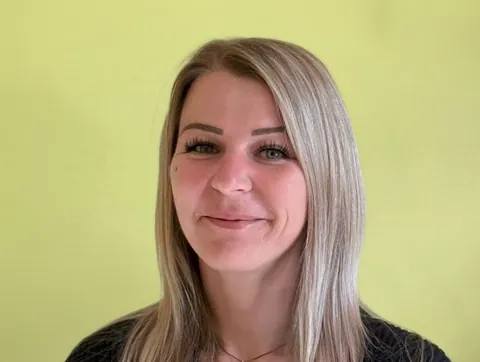
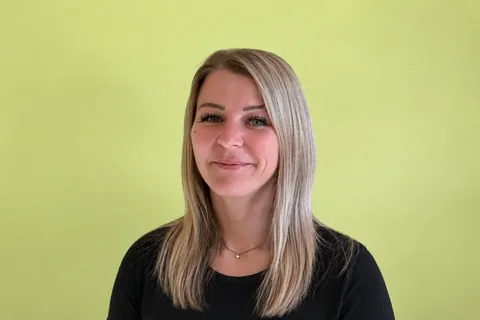
feat: portraits rectangulaires, nouvelle photo Madelyn, bandeau défilant Google Sheet

diff --git a/assets/site.js b/assets/site.js
@@ -95,3 +95,70 @@ oeffnungsstatus();
 setInterval(oeffnungsstatus, 60000);
 menue();
 galerie();
+
+/* ---------- Laufband für Praxisferien & Hinweise ----------
+   Der Text steht in einer Google-Tabelle (Datei → Freigeben → Im Web veröffentlichen → CSV).
+   Die Adresse des CSV-Links kommt hier hinein. Leer lassen = kein Laufband.
+   Tabelle: Zeile 1 = Überschriften, ab Zeile 2 je Zeile: Text | Von | Bis
+   (Datum als TT.MM.JJJJ oder JJJJ-MM-TT; "Von"/"Bis" dürfen leer bleiben). */
+const LAUFBAND_CSV = "";
+
+(function laufband() {
+  if (!LAUFBAND_CSV) return;
+
+  const heuteBerlin = () => new Intl.DateTimeFormat("sv-SE", { timeZone: "Europe/Berlin" }).format(new Date()); // JJJJ-MM-TT
+  const alsIso = (s) => {
+    s = (s || "").trim();
+    let m = s.match(/^(\d{1,2})\.(\d{1,2})\.(\d{4})$/);
+    if (m) return `${m[3]}-${m[2].padStart(2, "0")}-${m[1].padStart(2, "0")}`;
+    m = s.match(/^(\d{4})-(\d{1,2})-(\d{1,2})$/);
+    return m ? `${m[1]}-${m[2].padStart(2, "0")}-${m[3].padStart(2, "0")}` : "";
+  };
+  // Minimaler CSV-Leser (Anführungszeichen, Kommas und Zeilenumbrüche in Zellen)
+  const csv = (text) => {
+    const zeilen = []; let zeile = [], zelle = "", q = false;
+    for (let i = 0; i < text.length; i++) {
+      const c = text[i];
+      if (q) { if (c === '"') { if (text[i + 1] === '"') { zelle += '"'; i++; } else q = false; } else zelle += c; }
+      else if (c === '"') q = true;
+      else if (c === ",") { zeile.push(zelle); zelle = ""; }
+      else if (c === "\n" || c === "\r") { if (c === "\r" && text[i + 1] === "\n") i++; zeile.push(zelle); zeilen.push(zeile); zeile = []; zelle = ""; }
+      else zelle += c;
+    }
+    if (zelle || zeile.length) { zeile.push(zelle); zeilen.push(zeile); }
+    return zeilen;
+  };
+
+  fetch(LAUFBAND_CSV, { cache: "no-store" })
+    .then((r) => (r.ok ? r.text() : Promise.reject()))
+    .then((text) => {
+      const heute = heuteBerlin();
+      const texte = csv(text).slice(1)
+        .filter(([t, von, bis]) => {
+          if (!(t || "").trim()) return false;
+          const v = alsIso(von), b = alsIso(bis);
+          return (!v || v <= heute) && (!b || heute <= b);
+        })
+        .map(([t]) => t.trim());
+      if (!texte.length) return;
+
+      const band = document.createElement("div");
+      band.className = "laufband";
+      band.setAttribute("role", "region");
+      band.setAttribute("aria-label", "Aktuelle Hinweise");
+      const spur = document.createElement("div");
+      spur.className = "laufband__spur";
+      // Zweimal, damit die Schleife nahtlos läuft; die Kopie ist für Screenreader ausgeblendet
+      [false, true].forEach((kopie) => {
+        const p = document.createElement("p");
+        if (kopie) p.setAttribute("aria-hidden", "true");
+        p.textContent = texte.join("   ·   ") + "   ·   ";
+        spur.appendChild(p);
+      });
+      // Geschwindigkeit ~ 60 px/s, unabhängig von der Textlänge
+      band.appendChild(spur);
+      document.body.prepend(band);
+      spur.style.animationDuration = Math.max(15, spur.firstChild.scrollWidth / 60) + "s";
+    })
+    .catch(() => {}); // Tabelle nicht erreichbar: Seite bleibt einfach ohne Laufband
+})();

diff --git a/assets/site.css b/assets/site.css
@@ -305,13 +305,13 @@ a.card:hover { border-color: var(--cobalt); box-shadow: var(--shadow); transform
 .card__more { margin-top: auto; padding-top: 12px; font-weight: 600; color: var(--cobalt); }
 
 /* ---------- Team ---------- */
-.faces { display: grid; grid-template-columns: repeat(5, 1fr); gap: clamp(12px, 2vw, 24px); list-style: none; padding: 0; margin: 0; }
+.faces { display: grid; grid-template-columns: repeat(3, 1fr); gap: clamp(12px, 2vw, 24px); list-style: none; padding: 0; margin: 0; }
 .face { text-align: center; }
-.face__img { aspect-ratio: 1; border-radius: 50%; overflow: hidden; background: var(--wall-strong); margin-bottom: 12px; border: 4px solid var(--white); box-shadow: var(--shadow); }
-.face__img img { width: 100%; height: 100%; object-fit: cover; object-position: 50% 30%; transform: scale(1.35); transform-origin: 50% 35%; }
+.face__img { aspect-ratio: 1.15; border-radius: 6px; overflow: hidden; background: var(--wall-strong); margin-bottom: 12px; }
+.face__img img { width: 100%; height: 100%; object-fit: cover; object-position: 50% 30%; }
 .face strong { display: block; font-family: var(--serif); font-size: 1.1rem; font-weight: 600; line-height: 1.25; }
 .face span { display: block; color: var(--muted); font-size: .92rem; line-height: 1.35; margin-top: 4px; }
-@media (max-width: 859px) { .faces { grid-template-columns: repeat(3, 1fr); } }
+@media (max-width: 859px) { .faces { grid-template-columns: repeat(2, 1fr); } }
 @media (max-width: 520px) { .faces { grid-template-columns: repeat(2, 1fr); } .faces .face:last-child:nth-child(odd) { grid-column: 1 / -1; max-width: 50%; margin: 0 auto; } }
 
 .doctors { display: grid; grid-template-columns: 1.1fr 1fr; gap: clamp(28px, 5vw, 64px); align-items: center; }
@@ -520,3 +520,16 @@ a.card:hover { border-color: var(--cobalt); box-shadow: var(--shadow); transform
   .site-header, .actionbar, .menu-toggle, .farbwahl, .site-footer .footer__bottom ul { display: none !important; }
   body { background: #fff; padding: 0; }
 }
+
+/* ---------- Laufband (Ferien-Hinweis, Text aus Google-Tabelle) ---------- */
+.laufband { background: var(--sun); color: var(--ink); font-weight: 600; overflow: hidden; white-space: nowrap; border-bottom: 1px solid rgba(0,0,0,.08); }
+.laufband__spur { display: flex; width: max-content; animation: laufband 30s linear infinite; }
+.laufband:hover .laufband__spur { animation-play-state: paused; }
+.laufband p { margin: 0; padding: .55em 0; flex: none; }
+@keyframes laufband { to { transform: translateX(-50%); } }
+@media (prefers-reduced-motion: reduce) {
+  .laufband { white-space: normal; text-align: center; padding: 0 16px; }
+  .laufband__spur { animation: none !important; width: auto; }
+  .laufband p[aria-hidden] { display: none; }
+}
+@media print { .laufband { display: none; } }

diff --git a/team.html b/team.html
@@ -96,7 +96,7 @@
         <li class="face"><div class="face__img"><img src="assets/img/volkmann-480.webp" width="480" height="320" alt="Porträt von Solvig Volkmann" loading="lazy"></div><strong>Solvig Volkmann</strong><span>Zahnmedizinische Fachangestellte</span></li>
         <li class="face"><div class="face__img"><img src="assets/img/moehring-480.webp" width="480" height="320" alt="Porträt von Anne Möhring" loading="lazy"></div><strong>Anne Möhring</strong><span>Zahnmedizinische Prophylaxehelferin</span></li>
         <li class="face"><div class="face__img"><img src="assets/img/feldmann-480.webp" width="480" height="320" alt="Porträt von Doreen Feldmann" loading="lazy"></div><strong>Doreen Feldmann</strong><span>Zahnmedizinische Verwaltungsangestellte</span></li>
-        <li class="face"><div class="face__img"><img src="assets/img/grimm-480.webp" width="480" height="362" alt="Porträt von Madelyn Grimm" loading="lazy"></div><strong>Madelyn Grimm</strong><span>Zahnmedizinische Fachangestellte</span></li>
+        <li class="face"><div class="face__img"><img src="assets/img/grimm-480.webp" width="480" height="320" alt="Porträt von Madelyn Grimm" loading="lazy"></div><strong>Madelyn Grimm</strong><span>Zahnmedizinische Fachangestellte</span></li>
       </ul>
     </div>
   </section>

diff --git a/index.html b/index.html
@@ -202,7 +202,7 @@
         <li class="face"><div class="face__img"><img src="assets/img/volkmann-480.webp" width="480" height="320" alt="" loading="lazy"></div><strong>Solvig Volkmann</strong><span>Zahnmedizinische Fachangestellte</span></li>
         <li class="face"><div class="face__img"><img src="assets/img/moehring-480.webp" width="480" height="320" alt="" loading="lazy"></div><strong>Anne Möhring</strong><span>Zahnmedizinische Prophylaxehelferin</span></li>
         <li class="face"><div class="face__img"><img src="assets/img/feldmann-480.webp" width="480" height="320" alt="" loading="lazy"></div><strong>Doreen Feldmann</strong><span>Zahnmedizinische Verwaltungsangestellte</span></li>
-        <li class="face"><div class="face__img"><img src="assets/img/grimm-480.webp" width="480" height="362" alt="" loading="lazy"></div><strong>Madelyn Grimm</strong><span>Zahnmedizinische Fachangestellte</span></li>
+        <li class="face"><div class="face__img"><img src="assets/img/grimm-480.webp" width="480" height="320" alt="" loading="lazy"></div><strong>Madelyn Grimm</strong><span>Zahnmedizinische Fachangestellte</span></li>
       </ul>
     </div>
   </section>
